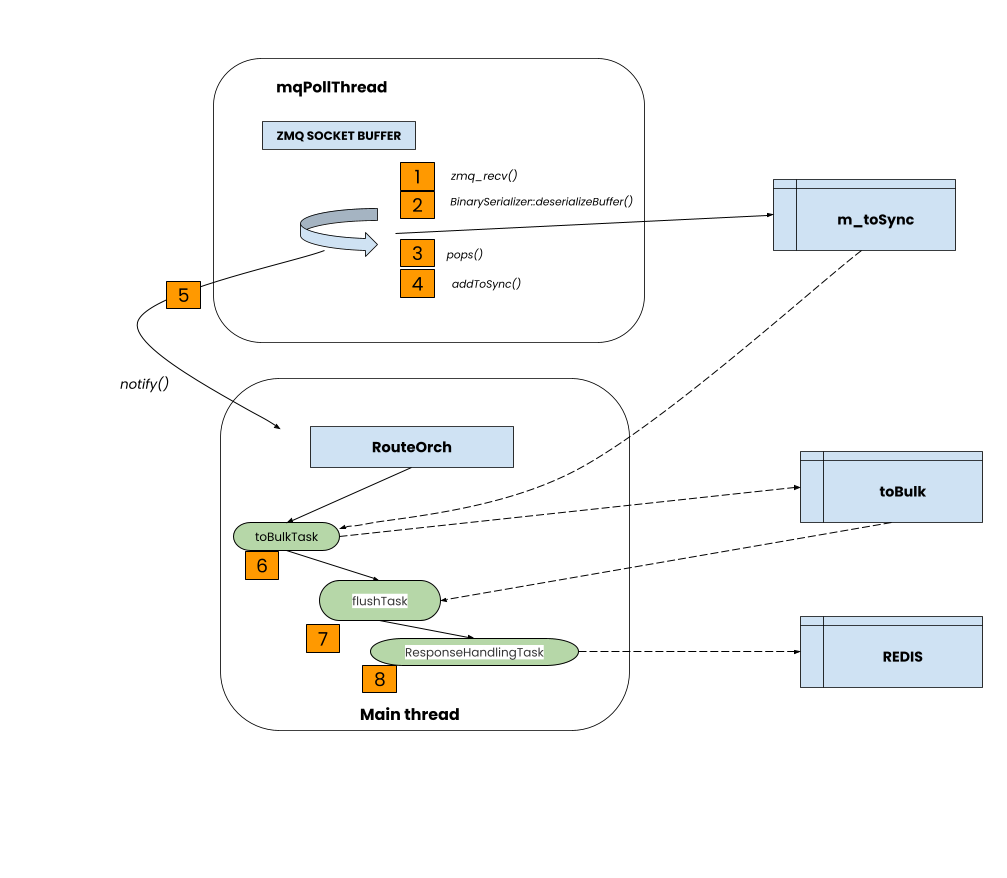
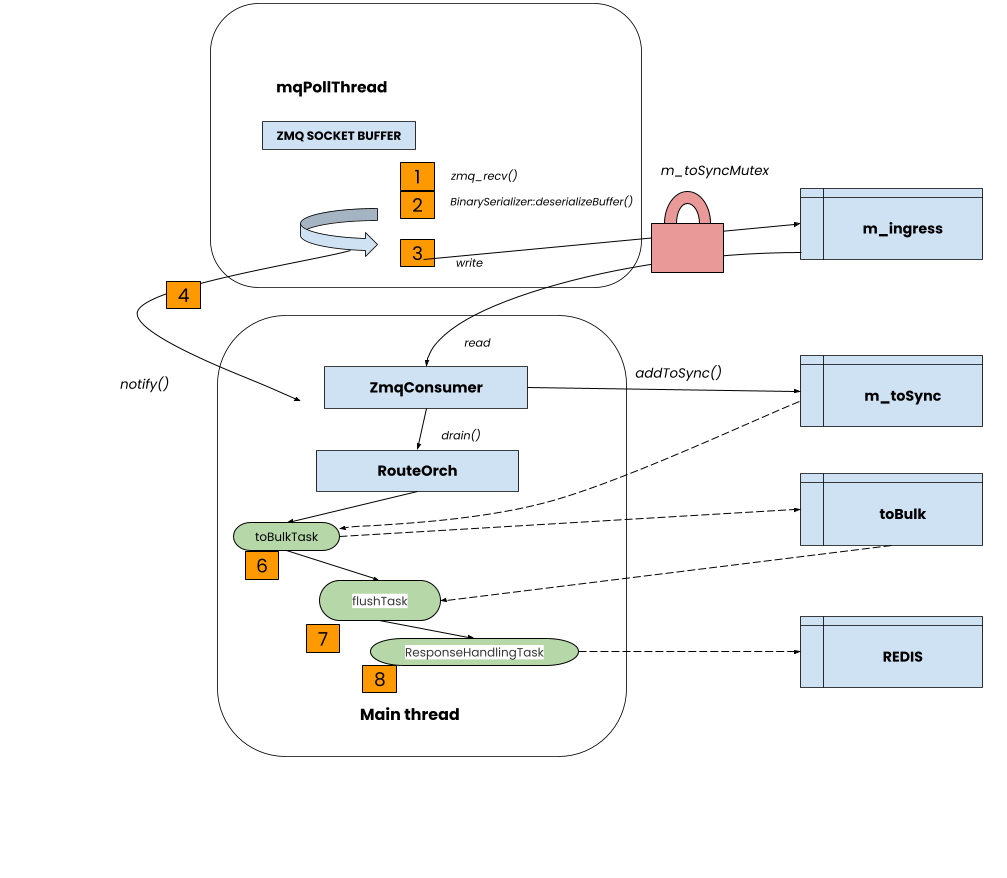
[orchagent] HLD: revise ZMQ ingress model to staging-map design
Match the design implemented in sonic-swss-common#1187 and sonic-swss#4564:
the mqPollThread ingress callback coalesces tuples into a plain staging map
(m_ingress) under m_toSyncMutex rather than merging into m_toSync directly.
ZmqRouteConsumer::execute() merges the staged tuples into m_toSync under the
lock and then runs drain() lock-free. Revise sections 4, 6.3, 7.2, 7.9, 12,
and 13.1, bump the revision table, and update the new-design diagram.

diff --git a/doc/orchagent/orchagent_route_redesign.md b/doc/orchagent/orchagent_route_redesign.md
@@ -45,6 +45,7 @@
 | Rev | Date       | Author                  | Change Description |
 |-----|------------|-------------------------|--------------------|
 | 0.1 | 2026-05-12 | Venkit Kasiviswanathan  | Initial version    |
+| 0.2 | 2026-07-19 | Venkit Kasiviswanathan  | Revise §7.2 ingress model: stage ZMQ tuples in a coalescing map (`m_ingress`) and merge into `m_toSync` in `execute()`; `drain()` runs lock-free. |
 
 ## 2. Scope
 
@@ -89,8 +90,9 @@ queues and ZMQ socket buffers back up under load.
 
 This HLD proposes to:
 
-1. Move the addToSync work into `mqPollThread` so tuples flow directly into
-   the coalescing `m_toSync`, removing the intermediate non-coalescing queues.
+1. Remove the intermediate non-coalescing queues: the `mqPollThread` ingress
+   callback coalesces tuples into a staging map, and the main thread merges
+   that map into `m_toSync` in `execute()`.
 2. Split `drain()` into three independent stages (build bulk, flush, handle
    response) and run each under a bounded time quantum with yield/resume
    semantics.
@@ -169,10 +171,10 @@ unchanged. What changes is the threading model and data flow inside
 
 ![New orchagent route programming flow](images/orchagent_route_redesign/new_design.png)
 
-- Move `addToSync` work off the main thread. The merge logic now runs in
-  `mqPollThread`.
-- Eliminate the intermediate queues. Tuples flow from `mqPollThread` →
-  `m_toSync` directly.
+- Eliminate the intermediate non-coalescing queues. The `mqPollThread` ingress
+  callback coalesces tuples into a staging map (`m_ingress`) instead.
+- Merge the staging map into `m_toSync` in `execute()` on the main thread, then
+  run `drain()` without holding the lock.
 - Wake the main loop at most once per "real" burst. Use a 2-tier poll timeout
   to coalesce notifications.
 - Split `drain()` into three independent tasks (`toBulkTask`, `flushTask`,
@@ -194,27 +196,35 @@ unchanged. What changes is the threading model and data flow inside
 - `m_toSync` can be converted to a simple `unordered_map`. Any update simply
   overwrites the existing entry's value.
 
-### 7.2. Update `m_toSync` from `mqPollThread` directly
+### 7.2. Coalesce ZMQ ingress into a staging map; merge into `m_toSync` in `execute()`
 
 PRs implementing this:
 
 - [sonic-swss-common#1187](https://github.com/sonic-net/sonic-swss-common/pull/1187)
 - [sonic-swss#4564](https://github.com/sonic-net/sonic-swss/pull/4564)
 
-- Eliminate the intermediate non-coalescing queues described above and update
-  the coalescing `m_toSync` directly from `mqPollThread`.
-- This ensures ZMQ socket buffers are drained on time.
-- More coalescing happens when `drain()` is slower.
-- The following operations are performed inside `mqPollThread`:
-  - `pops()`
-  - `addToSync()`
-- Locks protect concurrent access to `m_toSync`.
-- The change is implemented incrementally. The initial implementation still
-  holds the lock for the entire duration when `drain()` is operating, which
-  is no different from today.
-- In subsequent PRs the code incrementally reads/writes `m_toSync` only when
-  required, allowing `mqPollThread` to update it even while `drain()` is
-  operating.
+- Eliminate the intermediate non-coalescing queues described above. Rather than
+  merging into `m_toSync` from `mqPollThread`, the poll thread's ingress
+  callback stages each tuple into a separate, key-coalescing
+  `std::unordered_map` (`m_ingress`) under `m_toSyncMutex`. Because `m_ingress`
+  is keyed by the route key, repeated updates to the same key overwrite in
+  place, so it coalesces (unlike the old queue). The poll thread never calls
+  `addToSync()` and never touches `m_toSync`.
+- This ensures ZMQ socket buffers are drained on time. More coalescing happens
+  in `m_ingress` when `drain()` is slower.
+- `ZmqRouteConsumer::execute()` (the orch main thread) then merges the staged
+  tuples into `m_toSync`: under `m_toSyncMutex` it moves everything out of
+  `m_ingress`, clears it, and calls `addToSync(entries)` — mirroring
+  `ZmqConsumer::execute()`'s `pops()` + `addToSync()`. The lock is held only
+  for this brief hand-off.
+- `drain()` then runs **without** the lock. Because `m_toSync` is mutated only
+  by the main thread, `drain()` and all base `ConsumerBase` paths need no
+  locking; there is no phase where the lock is held for the duration of
+  `drain()`.
+- Wake-up is coalesced: the ingress callback fires `notifyPending()` only once
+  the staged batch reaches `gMaxBulkSize` (so the main loop wakes to a real
+  batch), and the `ZmqRouteServer` poll loop otherwise wakes the main loop at
+  most once per burst (the 2-tier poll timeout described in §6.3).
 
 ### 7.3. Split `drain()` into 3 independent operations
 
@@ -321,10 +331,12 @@ This is a built-in SONiC feature, not a SONiC Application Extension.
 ### 7.9. SWSS / Syncd changes
 
 - Inside SWSS, the largest changes are in the ZMQ consumer path and
-  `RouteOrch`. The change replaces a non-coalescing intermediate queue with
-  direct updates into the coalescing `m_toSync` map (protected by a lock),
-  and breaks `drain()` into three independently schedulable stages with
-  yield/resume semantics and per-stage time quanta.
+  `RouteOrch`. The change replaces a non-coalescing intermediate queue with a
+  key-coalescing staging map (`m_ingress`) populated by the poll thread; the
+  main thread merges it into `m_toSync` in `execute()` (holding the lock only
+  for that hand-off) and then runs `drain()` lock-free. It also breaks
+  `drain()` into three independently schedulable stages with yield/resume
+  semantics and per-stage time quanta.
 - Syncd is not modified by this design. The SAI bulk API usage and
   flush-ordering semantics (deletes first, adds next, changes last) are
   preserved.
@@ -424,9 +436,6 @@ same SAI bulk-flush ordering. Existing warmboot/fastboot guarantees
 
 ## 12. Restrictions/Limitations
 
-- The incremental rollout still holds the `m_toSync` lock for the entire
-  duration of `drain()` in the initial PRs. Full concurrent access is gated
-  on subsequent PRs that read/write `m_toSync` only when required.
 - The yield/resume scheme relies on each stage being able to checkpoint its
   progress. Stages that, in the future, perform indivisible work larger than
   the time quantum will still run to completion before yielding.
@@ -437,8 +446,9 @@ same SAI bulk-flush ordering. Existing warmboot/fastboot guarantees
 
 - `m_toSync` as `unordered_map`: SET-then-SET coalesces, DEL-then-SET
   overwrites, SET-then-DEL overwrites.
-- `mqPollThread` writes directly into `m_toSync` with the correct lock
-  discipline.
+- The `mqPollThread` ingress callback stages tuples into `m_ingress`
+  (coalescing by key) under `m_toSyncMutex`, and `execute()` merges `m_ingress`
+  into `m_toSync` and then runs `drain()` without the lock.
 - `toBulkTask`, `flushTask`, `responseHandlingTask` each respect the
   configured time quantum and correctly checkpoint/resume.
 - `responseHandlingTask` failure handling: write back to `m_toSync` only when
